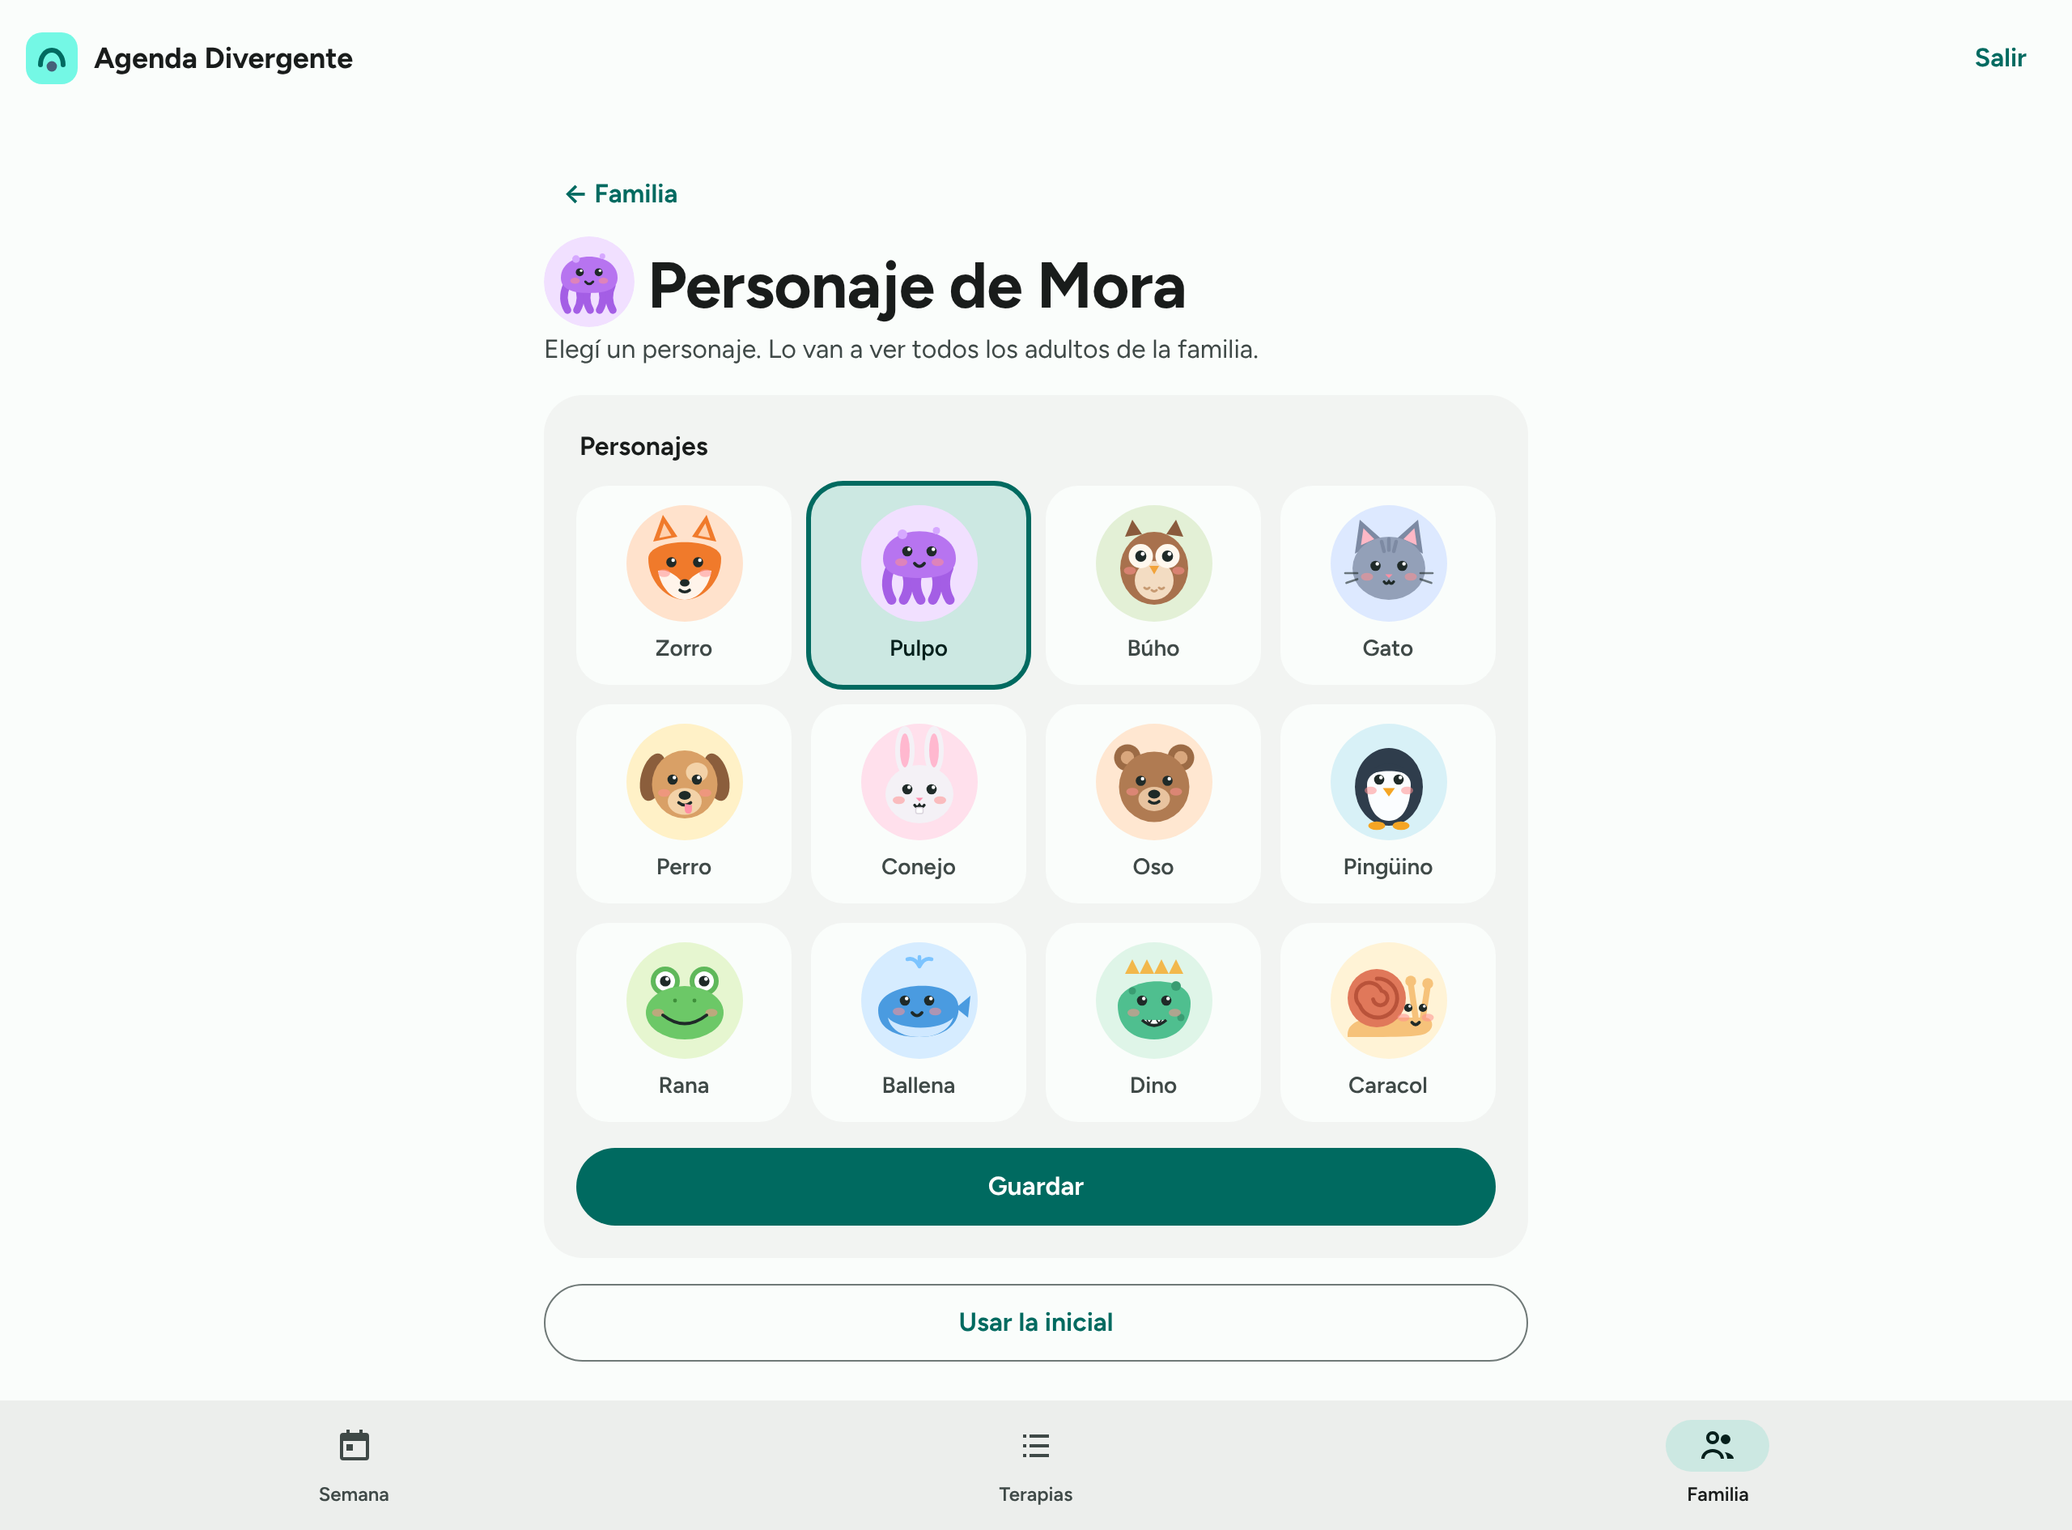
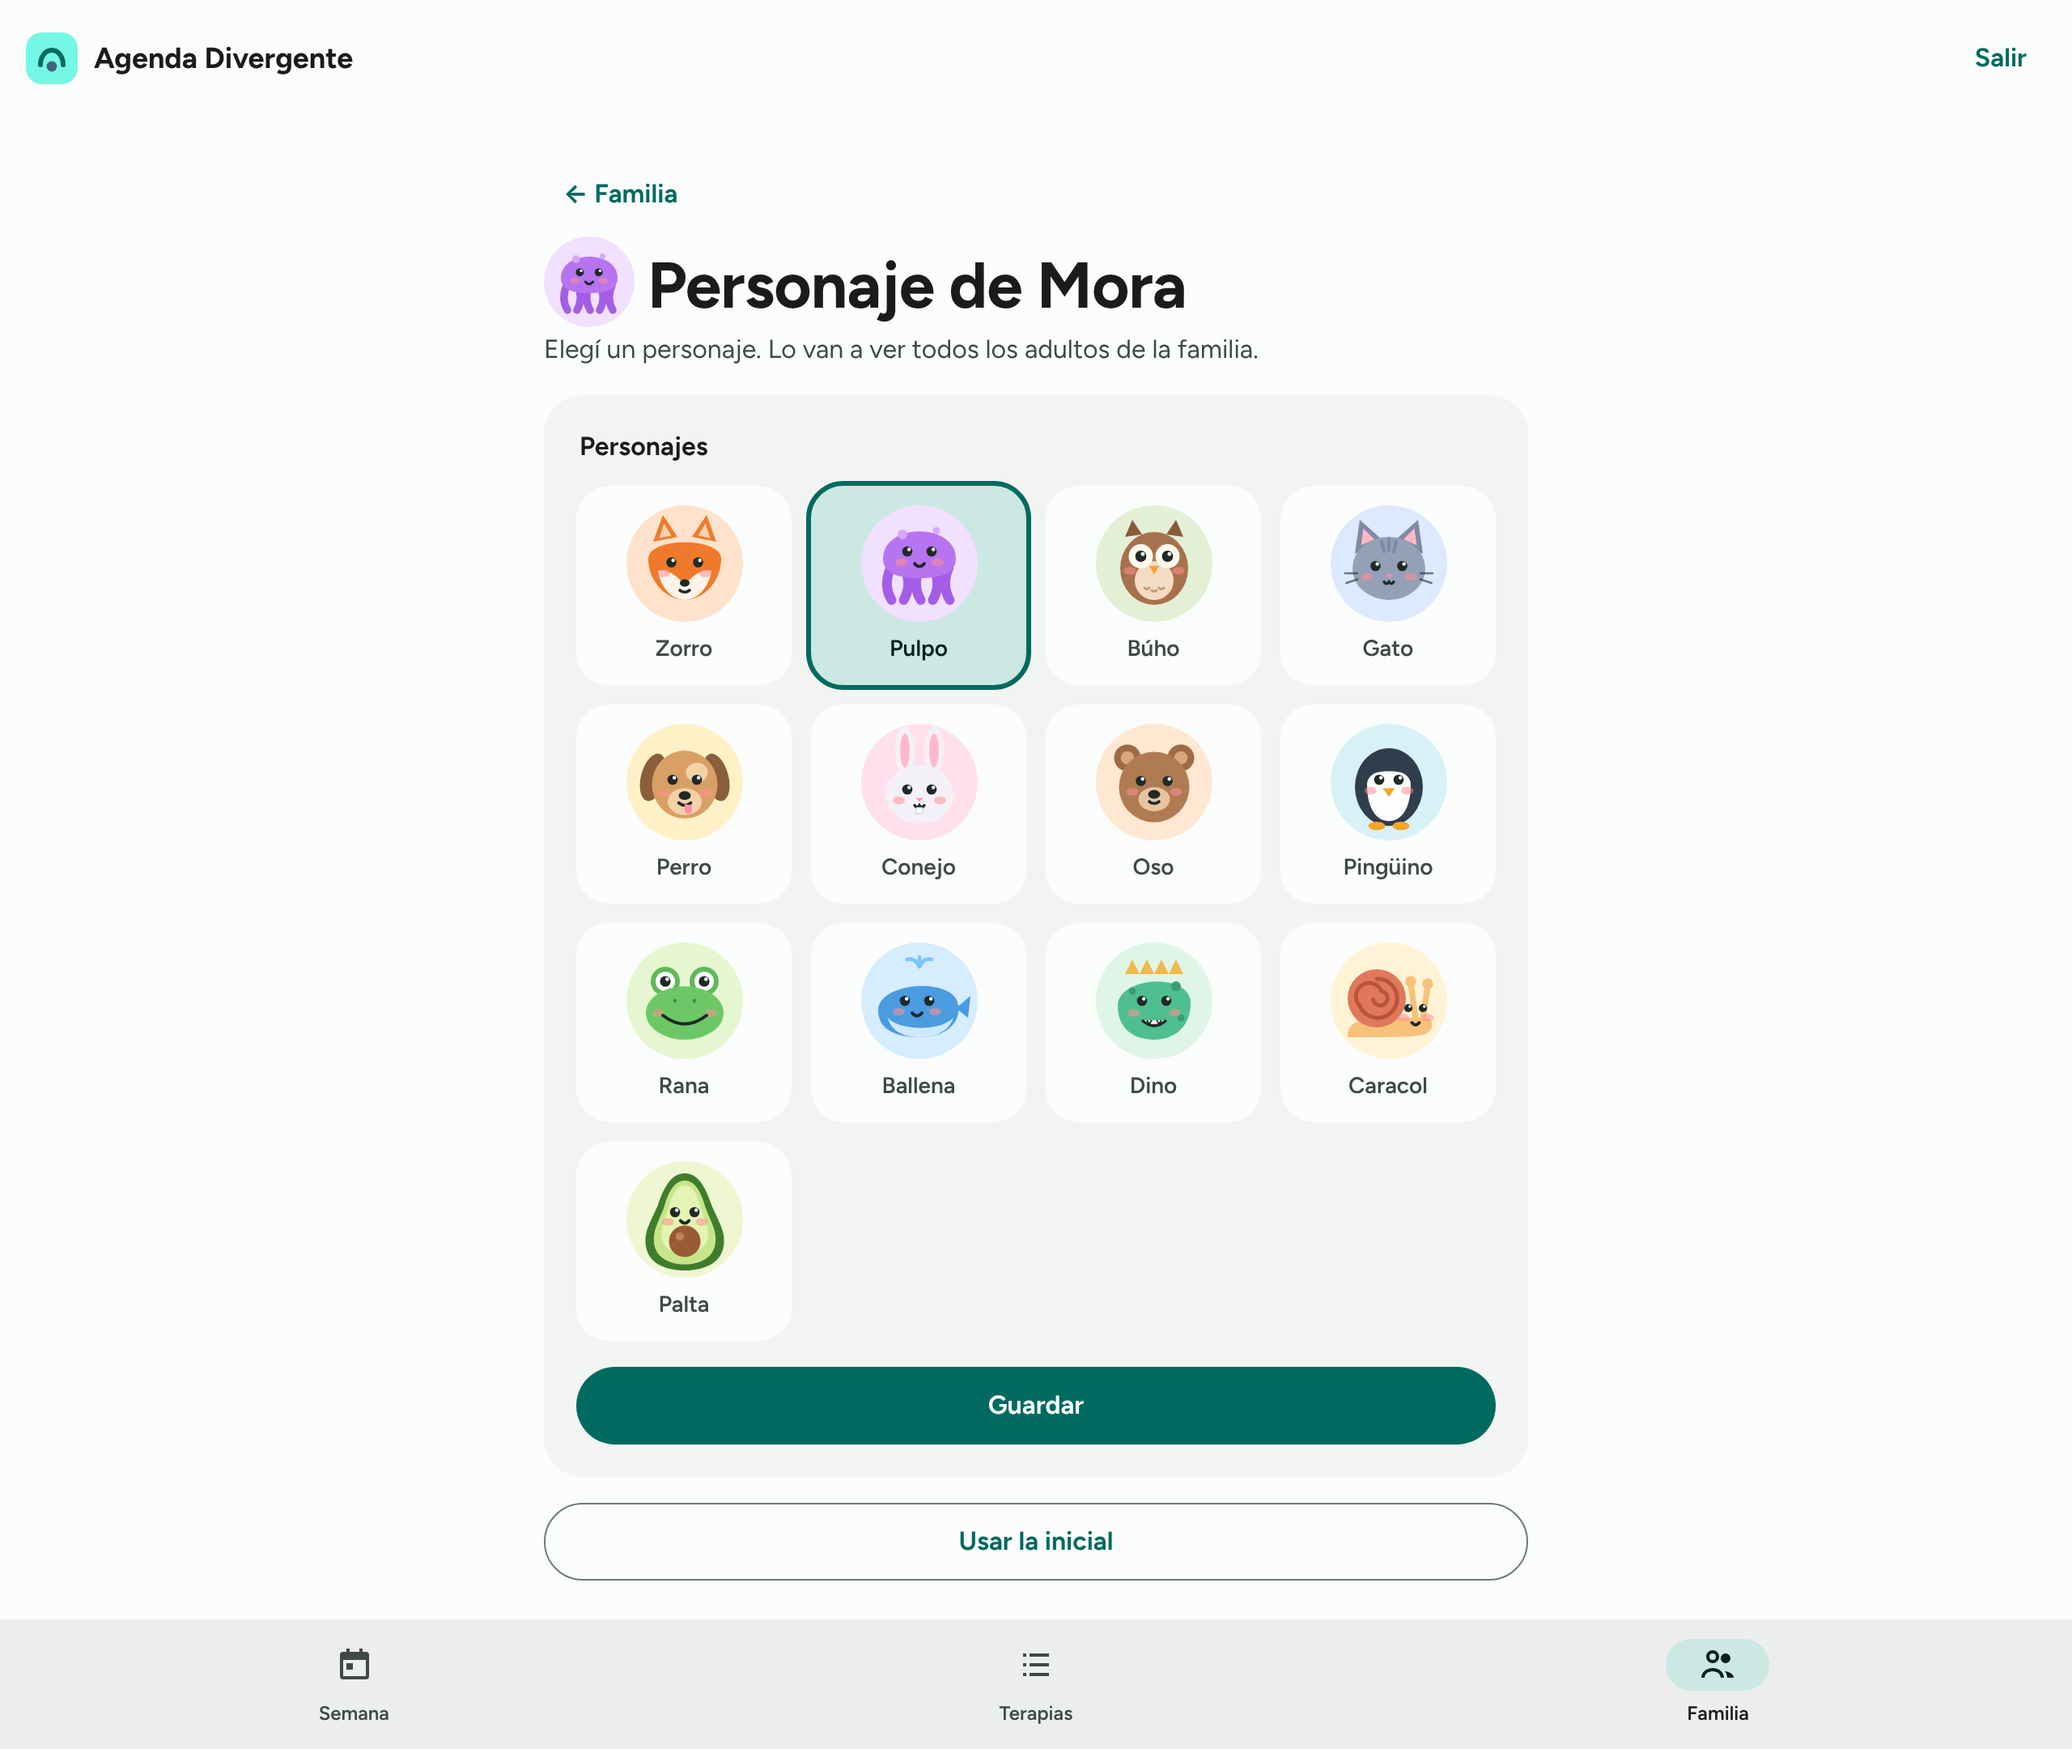
Suma la palta a la galería de avatares (pedido del operador)
Claude-Session: https://claude.ai/code/session_01GeifF3bggE58aMNRwoTFP1

diff --git a/tests/db/eventos-recordatorios.test.ts b/tests/db/eventos-recordatorios.test.ts
@@ -189,10 +189,10 @@ describe('avatares', () => {
   test('elegir el propio y el de un hijo; se ven en mi_familia', async () => {
     const f = await familia();
     await uno(f.adulto, "select public.elegir_avatar('zorro')");
-    await uno(f.adulto, "select public.elegir_avatar_hijo($1, 'pulpo')", [f.hijo]);
+    await uno(f.adulto, "select public.elegir_avatar_hijo($1, 'palta')", [f.hijo]);
     const { fam } = await uno(f.adulto, 'select public.mi_familia() as fam');
     expect(fam.adultos[0]).toMatchObject({ soy_yo: true, avatar: 'zorro' });
-    expect(fam.hijos[0]).toMatchObject({ avatar: 'pulpo' });
+    expect(fam.hijos[0]).toMatchObject({ avatar: 'palta' });
     expect(fam.recordatorios).toBe(true);
     await uno(f.adulto, 'select public.elegir_avatar(null)');
     expect((await uno(f.adulto, 'select public.mi_familia() as fam')).fam.adultos[0].avatar).toBeNull();

diff --git a/src/lib/avatares.ts b/src/lib/avatares.ts
@@ -13,6 +13,7 @@ export const AVATARES = [
   { id: 'ballena', nombre: 'Ballena' },
   { id: 'dino', nombre: 'Dino' },
   { id: 'caracol', nombre: 'Caracol' },
+  { id: 'palta', nombre: 'Palta' },
 ] as const;
 export type AvatarId = (typeof AVATARES)[number]['id'];
 export const esAvatar = (v: unknown): v is AvatarId => AVATARES.some((a) => a.id === v);

diff --git a/specs/done/004-eventos-recordatorios-avatares.md b/specs/done/004-eventos-recordatorios-avatares.md
@@ -129,7 +129,7 @@ escribe la familia y sí viaja). Tocar el aviso abre `/semana` en la semana del 
 - **Avatares**: en `/familia`, tocar el avatar de un adulto (solo el propio) o de un hijo abre
   `/avatar` con la galería; "Usar la inicial" vuelve al círculo con la letra. El avatar se ve en
   `/familia`, en la cabecera de la semana (el hijo) y en "Lo agregó / Lo cambió" donde aparezca.
-- **Galería**: 12 personajes originales en SVG, propios del proyecto, en la paleta de Material 3 de
+- **Galería**: 13 personajes originales en SVG, propios del proyecto, en la paleta de Material 3 de
   la app (animales y criaturas simples con cara amable). Versionados en `public/avatares/`, cada uno
   con nombre accesible ("Zorro", "Pulpo", …). **No** copian ni imitan personajes de terceros.
 - **Avisos** (`/familia`): un interruptor "Recordatorios (10 minutos antes y el día anterior)" por
@@ -185,7 +185,7 @@ Los deterministas se agregan a `evals/run.sh`. **Los de la 001 a la 003 siguen y
 
 ### Las decide quien implementa
 
-- Cómo se dibujan los 12 personajes (a mano en SVG, dentro de la paleta).
+- Cómo se dibujan los 13 personajes (a mano en SVG, dentro de la paleta).
 - Cómo se cruza en SQL la hora de Buenos Aires con `ahora` (registrar en `decisions.md`).
 
 ### Condiciones de parada (el agente para y pregunta)
@@ -283,6 +283,6 @@ Capturas en `docs/capturas/004/` (4 pantallas a 375 y 1280 px, y a 375 px en mod
 2. Evento con fecha: tarjeta blanca con borde terciario y etiqueta "Evento"; terapia: relleno
    verde; evento semanal: relleno azul con borde izquierdo; todo el día: franja azul oscura arriba
    del día. ✓
-3. Los 12 personajes se distinguen a 40 px (galería renderizada a 96 y 40 px) y son originales del
+3. Los 13 personajes se distinguen a 40 px (galería renderizada a 96 y 40 px) y son originales del
    proyecto. ✓
 4. Mismos tokens; contraste AA de los 5 pares nuevos en claro y oscuro; botones de 48 px. ✓

diff --git a/ARCHITECTURE.md b/ARCHITECTURE.md
@@ -9,7 +9,7 @@
 - App instalable: `public/manifest.webmanifest` (`start_url: /semana`, standalone, íconos en `public/iconos/` generados por `scripts/iconos.mjs`) y `public/sw.js` (solo `push` y `notificationclick`; sin caché offline). El service worker lo registra el script de `Avisos.astro` al activar los avisos.
 - Avisos: Web Push desde el servidor con `web-push` 4 (`src/lib/avisos.ts`). Claves `PUBLIC_VAPID_PUBLIC_KEY`, `VAPID_PRIVATE_KEY` y `VAPID_SUBJECT` en variables de Vercel; sin ellas, no se envía nada y la app funciona igual. Cada acción que dispara aviso espera el envío (máximo 4 s por suscripción) antes de redirigir; un fallo nunca rompe la acción.
 - Recordatorios: `pg_cron` de Supabase llama cada minuto con `pg_net` a `POST /api/recordatorios` (`supabase/cron/recordatorios.sql`, fuera de las migraciones). El endpoint verifica `Authorization: Bearer` contra `CRON_SECRET`, pide `tomar_recordatorios(secreto)` con la clave publicable (rol `anon`) y manda cada aviso con `web-push` (`src/lib/recordatorios.ts`). Sin `CRON_SECRET`, responde 401 a todo.
-- Avatares: galería cerrada de 12 personajes SVG propios en `public/avatares/`, generados por `scripts/generar-avatares.mjs` junto con `src/lib/avatares.ts`. Sin fotos ni archivos.
+- Avatares: galería cerrada de 13 personajes SVG propios en `public/avatares/`, generados por `scripts/generar-avatares.mjs` junto con `src/lib/avatares.ts`. Sin fotos ni archivos.
 - Auth: Supabase Auth con Google vía `@supabase/ssr`; la sesión viaja en cookies (PKCE).
 - Supabase: tablas con RLS y sin acceso directo; todo pasa por funciones `security definer` con `search_path` vacío.
 - Estilos: Material 3 hecho a mano. `src/styles/tokens.css` (generado desde la semilla `#2f8f83` por `scripts/generar-tokens.mjs`, claro y oscuro) y `src/styles/app.css` (componentes). Tipografía Figtree variable, autoalojada vía `@fontsource-variable/figtree`.

diff --git a/decisions.md b/decisions.md
@@ -109,7 +109,7 @@
 
 ## 2026-11-19 · [datos] Avatares ilustrados de una galería cerrada, sin fotos
 
-**Qué se decide**: `perfiles.avatar` e `hijos.avatar` guardan el id de uno de 12 personajes propios (`public/avatares/`), con `check` contra la lista. Ningún archivo ni URL de imagen.
+**Qué se decide**: `perfiles.avatar` e `hijos.avatar` guardan el id de uno de 13 personajes propios (`public/avatares/`), con `check` contra la lista. Ningún archivo ni URL de imagen.
 **Por qué**: la familia quería personalizar sin subir fotos de una menor; la regla `2026-11-18 · [datos]` no cambia. Los personajes son originales del proyecto, no de terceros.
 **La invalidaría**: una decisión del operador de permitir fotos reales, con almacenamiento privado y sin metadatos.
 
